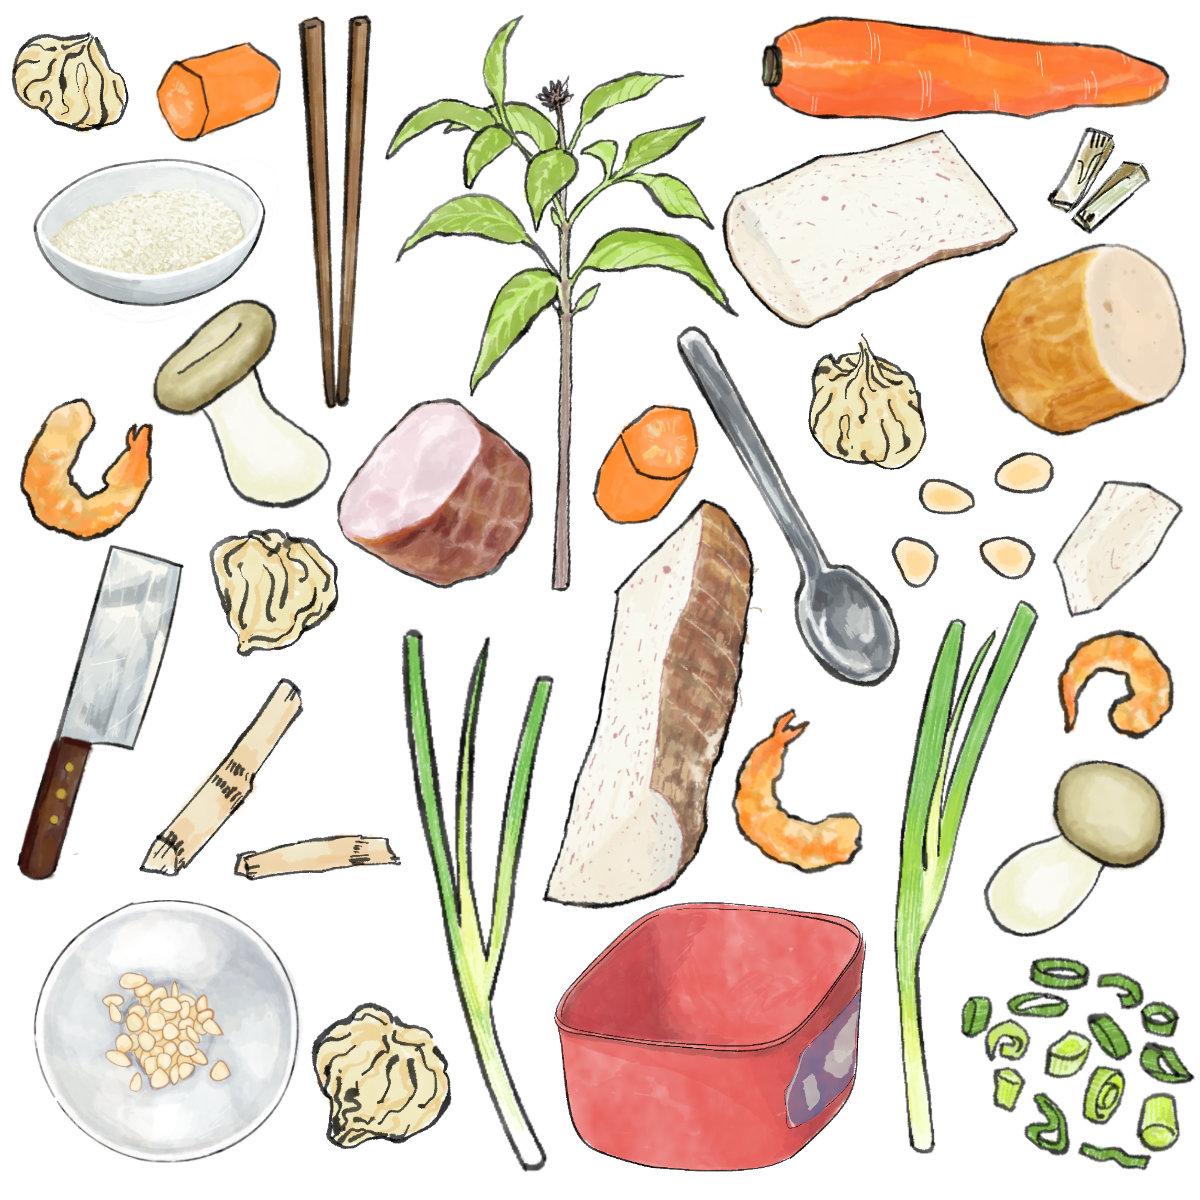
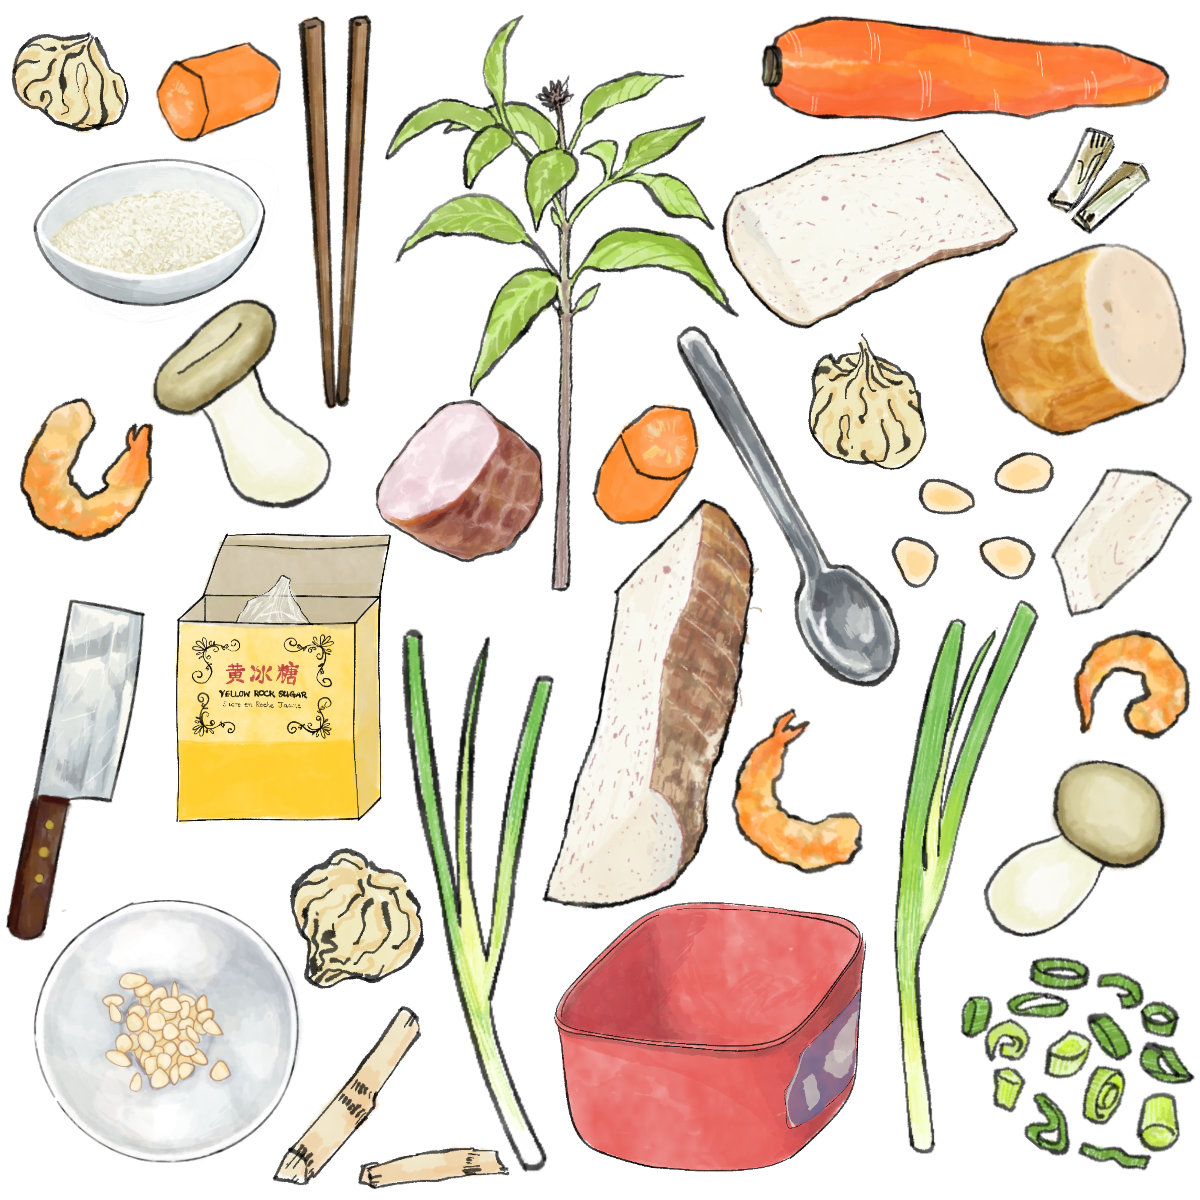
update illustrations

diff --git a/src/routes/sugar-cane-water/+page.svelte b/src/routes/sugar-cane-water/+page.svelte
@@ -60,7 +60,7 @@
         },
         {
           label: 'Rock sugar',
-          src: `${base}/img/sugar-cane-water/rock-sugar.png`
+          src: `${base}/img/sugar-cane-water/rock-sugar-box.png`
         }
       ]}
     />
